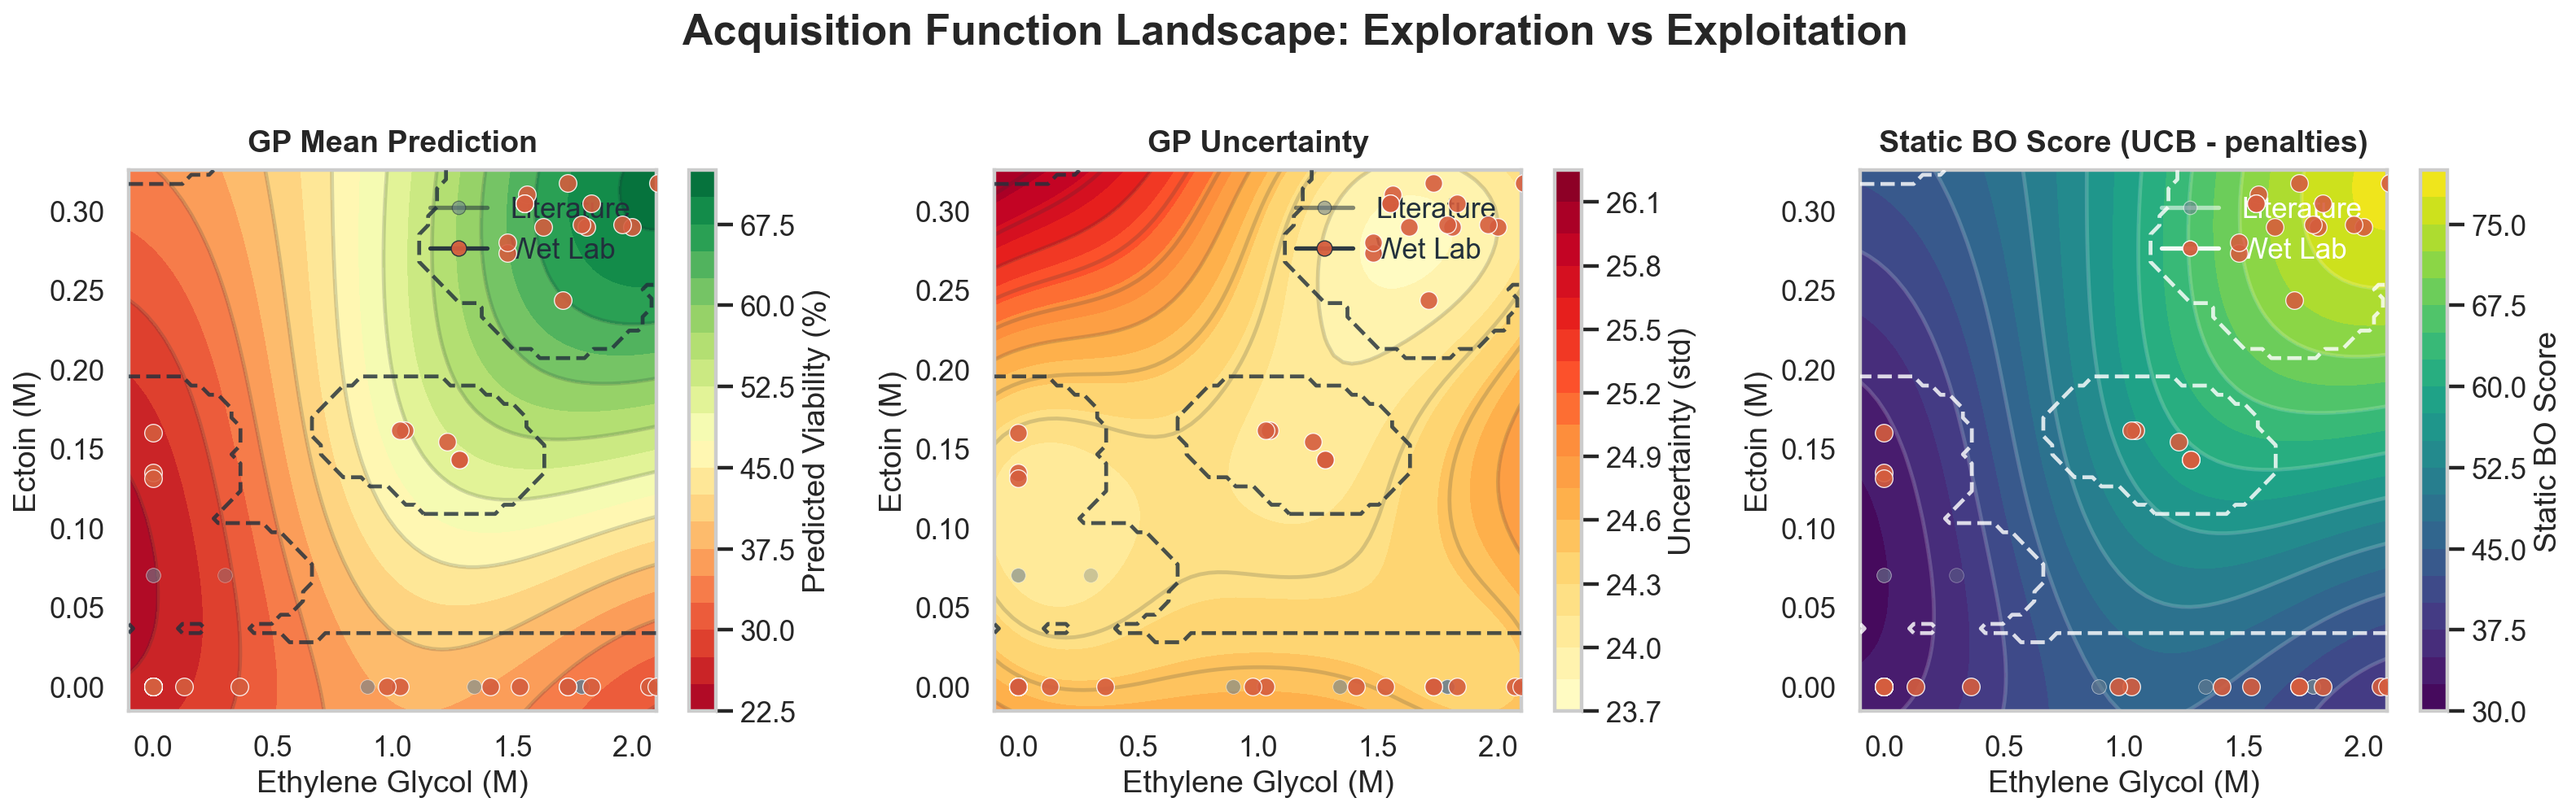
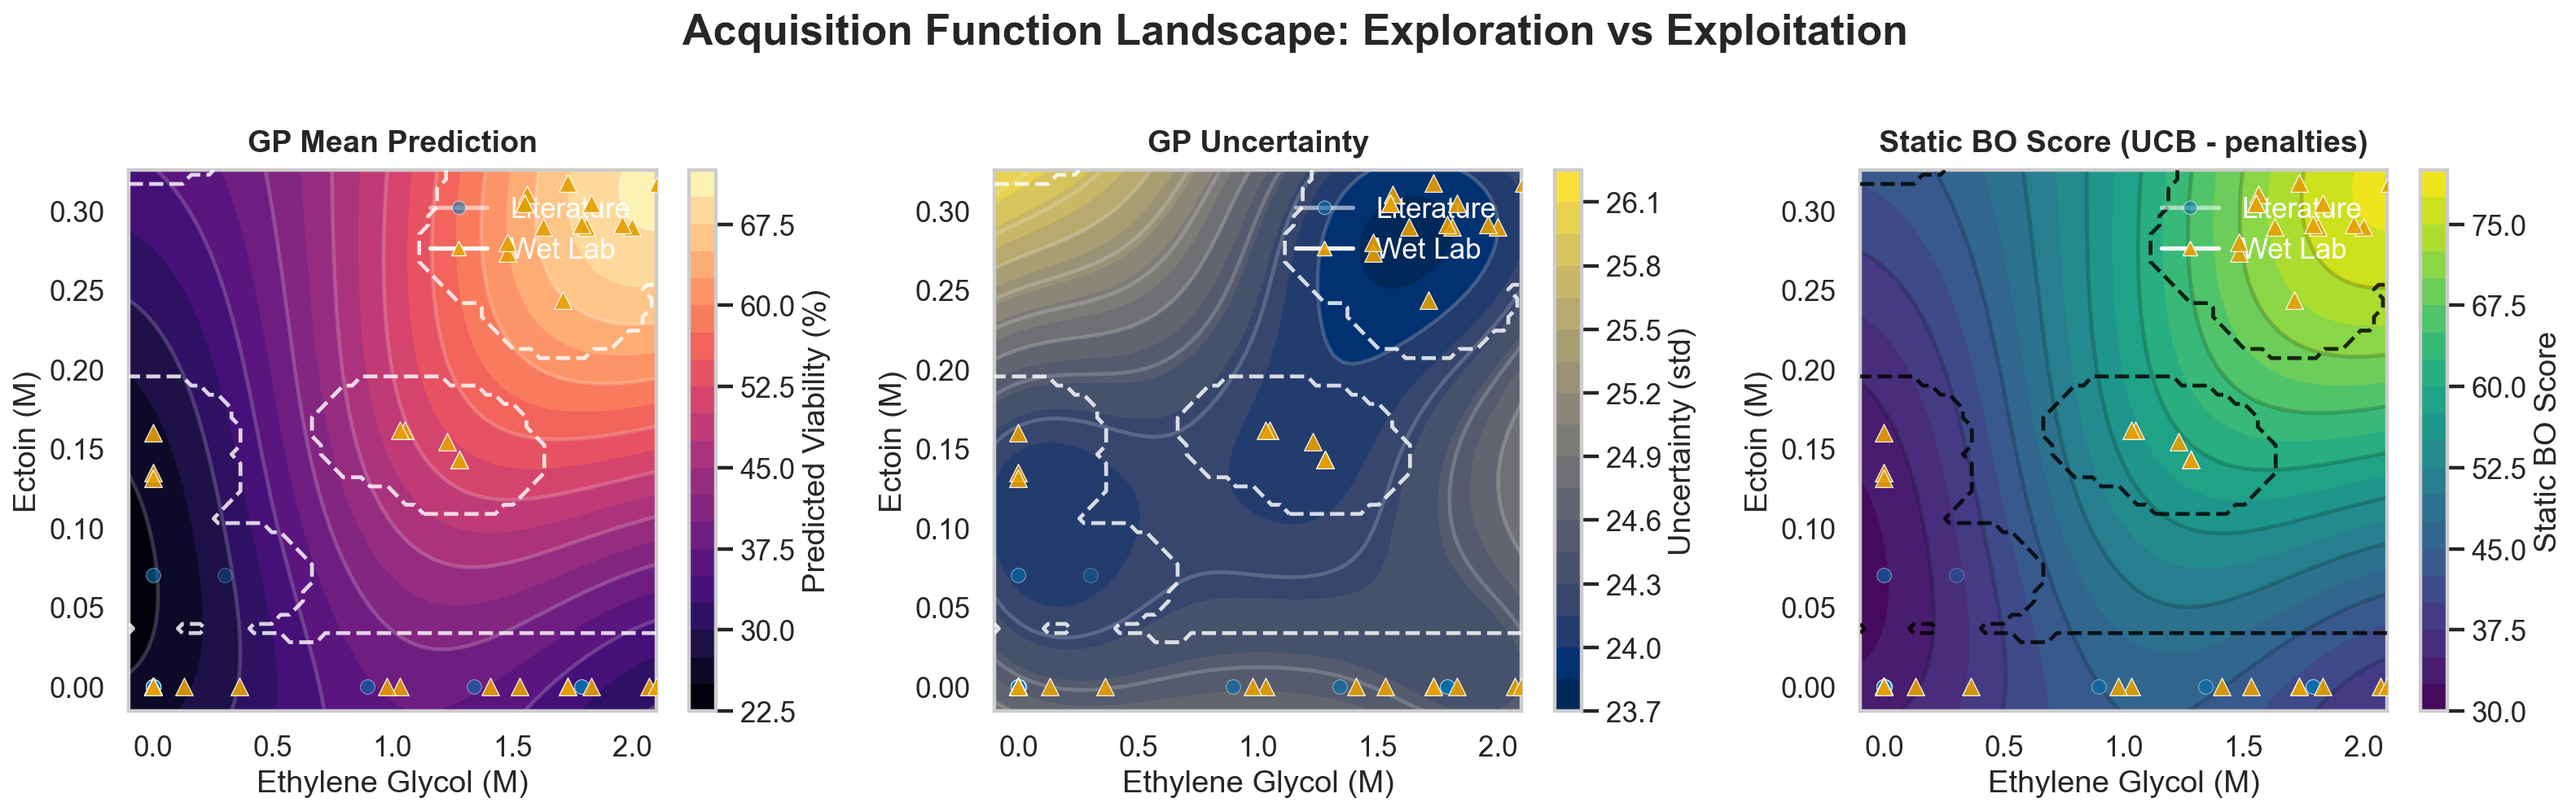
Explainability graphs now color-blind friendly

diff --git a/src/06_evaluation_explainability/explainability.py b/src/06_evaluation_explainability/explainability.py
@@ -20,6 +20,7 @@ Date: 2026-01-27
 
 from __future__ import annotations
 
+import argparse
 import os
 import sys
 import tempfile
@@ -122,19 +123,68 @@ class ExplainabilityConfig:
     bo_support_radius_scale: float = BOConfig.support_radius_scale
     bo_sparsity_penalty: float = BOConfig.sparsity_penalty
 
-    cmap_viability: str = 'RdYlGn'
-    cmap_uncertainty: str = 'YlOrRd'
+    cmap_viability: str = 'magma'
+    cmap_uncertainty: str = 'cividis'
     cmap_acquisition: str = 'viridis'
+    cmap_feature_importance: str = 'magma'
     line_primary: str = '#0b5d7a'
     line_secondary: str = '#2e8b57'
-    color_literature: str = '#6a7f8f'
-    color_wetlab: str = '#d55d3e'
+    color_literature: str = '#0072b2'
+    color_wetlab: str = '#e69f00'
+    marker_literature: str = 'o'
+    marker_wetlab: str = '^'
     support_fill: str = '#cfd8df'
-    contour_line_dark: str = '#22303c'
+    contour_line_dark: str = '#000000'
     contour_line_light: str = '#ffffff'
+    uncertainty_scatter_alpha_for_colorbar: float = 0.8
+    support_scatter_alpha_for_colorbar: float = 0.8
     support_diagnostic_legend_scale: float = 1.5
     interaction_min_axis_balance: float = 0.10
     interaction_min_occupied_bins: int = 4
+
+
+def apply_palette_profile(config: ExplainabilityConfig, profile: str):
+    """Apply palette settings for either accessibility-first or legacy styling."""
+    normalized = profile.strip().lower()
+    if normalized == 'colorblind':
+        config.cmap_viability = 'magma'
+        config.cmap_uncertainty = 'cividis'
+        config.cmap_acquisition = 'viridis'
+        config.cmap_feature_importance = 'magma'
+        config.color_literature = '#0072b2'
+        config.color_wetlab = '#e69f00'
+        config.marker_literature = 'o'
+        config.marker_wetlab = '^'
+        config.contour_line_dark = '#000000'
+        return
+
+    if normalized == 'legacy':
+        config.cmap_viability = 'RdYlGn'
+        config.cmap_uncertainty = 'YlOrRd'
+        config.cmap_acquisition = 'viridis'
+        config.cmap_feature_importance = 'RdYlGn'
+        config.color_literature = '#6a7f8f'
+        config.color_wetlab = '#d55d3e'
+        config.marker_literature = 'o'
+        config.marker_wetlab = 'o'
+        config.contour_line_dark = '#22303c'
+        return
+
+    raise ValueError(f"Unsupported palette profile: {profile}")
+
+
+def parse_args(argv: Optional[Sequence[str]] = None):
+    """Parse CLI arguments for explainability report generation."""
+    parser = argparse.ArgumentParser(
+        description='Generate explainability artifacts for the active CryoMN model.'
+    )
+    parser.add_argument(
+        '--palette-profile',
+        choices=('colorblind', 'legacy'),
+        default='colorblind',
+        help='Choose color palette profile for explainability figures.',
+    )
+    return parser.parse_args(argv)
 
 
 def load_model_and_data(project_root: str):
@@ -259,9 +309,9 @@ def source_masks(df: pd.DataFrame) -> Dict[str, np.ndarray]:
 def source_legend_handles(config: ExplainabilityConfig, edge_color: str = 'white') -> List[Line2D]:
     """Legend handles for literature / wet-lab point overlays."""
     return [
-        Line2D([0], [0], marker='o', color='none', markerfacecolor=config.color_literature,
+        Line2D([0], [0], marker=config.marker_literature, color='none', markerfacecolor=config.color_literature,
                markeredgecolor=edge_color, markeredgewidth=0.5, label='Literature', markersize=7, alpha=0.55),
-        Line2D([0], [0], marker='o', color='none', markerfacecolor=config.color_wetlab,
+        Line2D([0], [0], marker=config.marker_wetlab, color='none', markerfacecolor=config.color_wetlab,
                markeredgecolor=edge_color, markeredgewidth=0.6, label='Wet Lab', markersize=8, alpha=0.95),
     ]
 
@@ -271,10 +321,10 @@ def alpha_legend_handles(config: ExplainabilityConfig, base_color: Optional[str]
     """Legend handles for plots that distinguish sources by alpha rather than color."""
     color = base_color or config.line_primary
     return [
-        Line2D([0], [0], marker='o', color='none', markerfacecolor=color,
+        Line2D([0], [0], marker=config.marker_literature, color='none', markerfacecolor=color,
                markeredgecolor='white', markeredgewidth=0.5, label='Literature',
                markersize=7 * marker_scale, alpha=0.20),
-        Line2D([0], [0], marker='o', color='none', markerfacecolor=color,
+        Line2D([0], [0], marker=config.marker_wetlab, color='none', markerfacecolor=color,
                markeredgecolor='white', markeredgewidth=0.6, label='Wet Lab',
                markersize=8 * marker_scale, alpha=0.95),
     ]
@@ -314,25 +364,55 @@ def relative_luminance(color: Tuple[float, float, float, float] | Tuple[float, f
     return float(np.dot(linear, np.array([0.2126, 0.7152, 0.0722])))
 
 
-def choose_contour_line_color(surface: np.ndarray, cmap_name: str,
-                              config: ExplainabilityConfig) -> str:
-    """Choose white or dark contour overlays from the underlying surface brightness."""
+def contrast_ratio(luminance_a: float, luminance_b: float) -> float:
+    """Return WCAG contrast ratio between two relative luminance values."""
+    lighter = max(float(luminance_a), float(luminance_b))
+    darker = min(float(luminance_a), float(luminance_b))
+    return (lighter + 0.05) / (darker + 0.05)
+
+
+def estimate_surface_luminance(surface: np.ndarray, cmap_name: str,
+                               vmin: Optional[float] = None,
+                               vmax: Optional[float] = None) -> Optional[float]:
+    """Estimate representative background luminance for a scalar surface."""
     finite = np.asarray(surface, dtype=float)
     finite = finite[np.isfinite(finite)]
     if finite.size == 0:
-        return config.contour_line_dark
+        return None
 
-    if np.isclose(finite.min(), finite.max()):
+    if vmin is None:
+        vmin = float(finite.min())
+    if vmax is None:
+        vmax = float(finite.max())
+    if np.isclose(vmax, vmin):
         sample_positions = np.array([0.5], dtype=float)
     else:
         sample_values = np.quantile(finite, [0.2, 0.5, 0.8])
-        sample_positions = (sample_values - finite.min()) / (finite.max() - finite.min())
+        sample_positions = np.clip((sample_values - vmin) / (vmax - vmin), 0.0, 1.0)
 
     cmap = plt.get_cmap(cmap_name)
-    luminance = np.mean([relative_luminance(cmap(float(pos))) for pos in sample_positions])
-    if luminance < 0.42:
-        return config.contour_line_light
-    return config.contour_line_dark
+    return float(np.mean([relative_luminance(cmap(float(pos))) for pos in sample_positions]))
+
+
+def choose_contrasting_surface_color(background_luminance: float,
+                                     config: ExplainabilityConfig) -> str:
+    """Choose dark/light overlay color with the better contrast ratio."""
+    dark_lum = relative_luminance(config.contour_line_dark)
+    light_lum = relative_luminance(config.contour_line_light)
+    dark_ratio = contrast_ratio(background_luminance, dark_lum)
+    light_ratio = contrast_ratio(background_luminance, light_lum)
+    if dark_ratio >= light_ratio:
+        return config.contour_line_dark
+    return config.contour_line_light
+
+
+def choose_contour_line_color(surface: np.ndarray, cmap_name: str,
+                              config: ExplainabilityConfig) -> str:
+    """Choose white or dark contour overlays from the underlying surface brightness."""
+    luminance = estimate_surface_luminance(surface, cmap_name)
+    if luminance is None:
+        return config.contour_line_dark
+    return choose_contrasting_surface_color(luminance, config)
 
 
 def choose_foreground_color_for_surface(surface: np.ndarray, cmap_name: str,
@@ -348,7 +428,18 @@ def choose_foreground_color_for_surface(surface: np.ndarray, cmap_name: str,
     row_slice = slice(0, row_extent) if 'upper' in loc else slice(array.shape[0] - row_extent, array.shape[0])
     col_slice = slice(array.shape[1] - col_extent, array.shape[1]) if 'right' in loc else slice(0, col_extent)
     local_surface = array[row_slice, col_slice]
-    return choose_contour_line_color(local_surface, cmap_name, config)
+    global_finite = array[np.isfinite(array)]
+    if global_finite.size == 0:
+        return config.contour_line_dark
+    local_luminance = estimate_surface_luminance(
+        local_surface,
+        cmap_name,
+        vmin=float(global_finite.min()),
+        vmax=float(global_finite.max()),
+    )
+    if local_luminance is None:
+        return config.contour_line_dark
+    return choose_contrasting_surface_color(local_luminance, config)
 
 
 def style_legend_for_surface(legend, surface: np.ndarray, cmap_name: str,
@@ -510,6 +601,7 @@ def overlay_source_points(ax: plt.Axes, x: np.ndarray, y: np.ndarray, source_df:
             x[masks['literature']],
             y[masks['literature']],
             c=config.color_literature,
+            marker=config.marker_literature,
             s=56,
             alpha=alpha_literature,
             edgecolors='white',
@@ -521,6 +613,7 @@ def overlay_source_points(ax: plt.Axes, x: np.ndarray, y: np.ndarray, source_df:
             x[masks['wetlab']],
             y[masks['wetlab']],
             c=config.color_wetlab,
+            marker=config.marker_wetlab,
             s=84,
             alpha=alpha_wetlab,
             edgecolors='white',
@@ -696,7 +789,8 @@ def plot_feature_importance(importance_df: pd.DataFrame, output_dir: str,
     values = display['importance'].to_numpy(dtype=float)
 
     fig, ax = plt.subplots(figsize=config.figsize_medium)
-    colors = plt.cm.RdYlGn(np.linspace(0.25, 0.85, len(display)))
+    cmap = plt.get_cmap(config.cmap_feature_importance)
+    colors = cmap(np.linspace(0.25, 0.85, len(display)))
     bars = ax.barh(range(len(display)), values, color=colors, edgecolor='white', linewidth=1.0, zorder=3)
 
     ax.set_yticks(range(len(display)))
@@ -1078,13 +1172,17 @@ def plot_uncertainty_analysis(model, scaler, X: np.ndarray, y: np.ndarray,
     ax.plot([0, 100], [0, 100], linestyle='--', color='#4a5966', alpha=0.7, linewidth=2)
     if masks['literature'].any():
         sc = ax.scatter(y[masks['literature']], y_pred[masks['literature']], c=y_std[masks['literature']],
-                        cmap=config.cmap_uncertainty, s=40, alpha=0.20, edgecolors='white', linewidths=0.35)
+                        cmap=config.cmap_uncertainty, marker=config.marker_literature, s=40,
+                        alpha=config.uncertainty_scatter_alpha_for_colorbar,
+                        edgecolors='white', linewidths=0.35)
     else:
-        sc = ax.scatter(y, y_pred, c=y_std, cmap=config.cmap_uncertainty, s=36, alpha=0.5,
+        sc = ax.scatter(y, y_pred, c=y_std, cmap=config.cmap_uncertainty, s=36,
+                        alpha=config.uncertainty_scatter_alpha_for_colorbar,
                         edgecolors='white', linewidths=0.35)
     if masks['wetlab'].any():
         ax.scatter(y[masks['wetlab']], y_pred[masks['wetlab']], c=y_std[masks['wetlab']],
-                   cmap=config.cmap_uncertainty, s=80, alpha=0.95, edgecolors='white', linewidths=0.55)
+                   cmap=config.cmap_uncertainty, marker=config.marker_wetlab, s=80, alpha=0.95,
+                   edgecolors='white', linewidths=0.55)
     plt.colorbar(sc, ax=ax, label='Uncertainty (std)')
     ax.set_xlabel('Actual Viability (%)')
     ax.set_ylabel('Predicted Viability (%)')
@@ -1106,10 +1204,12 @@ def plot_uncertainty_analysis(model, scaler, X: np.ndarray, y: np.ndarray,
     ax = axes[1, 0]
     if masks['literature'].any():
         ax.scatter(y_std[masks['literature']], np.abs(residuals[masks['literature']]),
-                   c=config.color_literature, s=50, alpha=0.4, edgecolors='white', linewidths=0.35)
+                   c=config.color_literature, marker=config.marker_literature, s=50, alpha=0.4,
+                   edgecolors='white', linewidths=0.35)
     if masks['wetlab'].any():
         ax.scatter(y_std[masks['wetlab']], np.abs(residuals[masks['wetlab']]),
-                   c=config.color_wetlab, s=100, alpha=0.9, edgecolors='white', linewidths=0.55)
+                   c=config.color_wetlab, marker=config.marker_wetlab, s=100, alpha=0.9,
+                   edgecolors='white', linewidths=0.55)
     z = np.polyfit(y_std, np.abs(residuals), 1)
     trend = np.poly1d(z)
     x_line = np.linspace(y_std.min(), y_std.max(), 200)
@@ -1206,11 +1306,13 @@ def plot_support_diagnostics(X: np.ndarray, y: np.ndarray, feature_names: Sequen
             **support_diagnostic_legend_kwargs(config),
         )
 
-    scatter = ax3.scatter(X[:, idx1], X[:, idx2], c=y, cmap=config.cmap_viability, s=180,
-                          alpha=0.20, edgecolors='white', linewidths=0.35)
+    scatter = ax3.scatter(X[:, idx1], X[:, idx2], c=y, cmap=config.cmap_viability,
+                          marker=config.marker_literature, s=180,
+                          alpha=config.support_scatter_alpha_for_colorbar, edgecolors='white', linewidths=0.35)
     if masks['wetlab'].any():
         ax3.scatter(X[masks['wetlab'], idx1], X[masks['wetlab'], idx2], c=y[masks['wetlab']],
-                    cmap=config.cmap_viability, s=300, alpha=0.95, edgecolors='black', linewidths=0.6)
+                    cmap=config.cmap_viability, marker=config.marker_wetlab, s=300,
+                    alpha=0.95, edgecolors='black', linewidths=0.6)
     x_min, x_max = quantile_range(X[:, idx1], config, weights=weights)
     y_min, y_max = quantile_range(X[:, idx2], config, weights=weights)
     ax3.set_xlim(x_min, x_max)
@@ -1234,14 +1336,16 @@ def plot_support_diagnostics(X: np.ndarray, y: np.ndarray, feature_names: Sequen
     print(f"  ✓ Support diagnostics saved: {output_path}")
 
 
-def main():
+def main(argv: Optional[Sequence[str]] = None):
     """Main entry point for explainability visualizations."""
+    args = parse_args(argv)
     script_dir = os.path.dirname(os.path.abspath(__file__))
     project_root = os.path.dirname(os.path.dirname(script_dir))
     base_output_dir = os.path.join(project_root, 'results', 'explainability')
     os.makedirs(base_output_dir, exist_ok=True)
 
     config = ExplainabilityConfig()
+    apply_palette_profile(config, args.palette_profile)
     apply_publication_style(config)
 
     print("=" * 80)

diff --git a/src/06_evaluation_explainability/README.md b/src/06_evaluation_explainability/README.md
@@ -22,6 +22,9 @@ python src/06_evaluation_explainability/evaluate_iterations.py
 
 # Model explainability
 python src/06_evaluation_explainability/explainability.py
+
+# Model explainability (legacy colors)
+python src/06_evaluation_explainability/explainability.py --palette-profile legacy
 ```
 
 ## Shared Inputs
@@ -117,11 +120,13 @@ The explainability suite is intentionally support-aware:
 - observed literature and wet-lab rows are overlaid wherever support matters
 - stronger-support regions are marked with dashed boundaries or line-style changes instead of masking the surface
 - the BO landscape keeps the contour aesthetic, but documents which production penalties are included
+- default colormaps use a warm, color-blind-friendly profile (`magma` / `cividis` / `viridis`);
+  use `--palette-profile legacy` to reproduce the historical palette (`RdYlGn` / `YlOrRd` / `viridis`)
 
 Support cues:
 
 - In `partial_dependence_plots.png`, dashed curve segments indicate the same empirical slice continued outside stronger local 1D support.
-- In `interaction_contours.png` and `acquisition_landscape.png`, the dashed white boundary marks the stronger pairwise support envelope estimated from observed formulations.
+- In `interaction_contours.png` and `acquisition_landscape.png`, the contrast-adaptive dashed boundary marks the stronger pairwise support envelope estimated from observed formulations.
 - Inside that dashed boundary, the surface is better grounded in observed data. Outside it, the surface is shown for continuity, but should be interpreted as more extrapolative.
 - In `feature_importance.png`, the vertical dashed line is only a visual dominance cutoff to separate the strongest features from the long tail; it is not a hard statistical threshold.
 - In `shap_summary.png`, only the top features are shown. Color encodes feature value and horizontal spread shows directional contribution magnitude across observed formulations.
